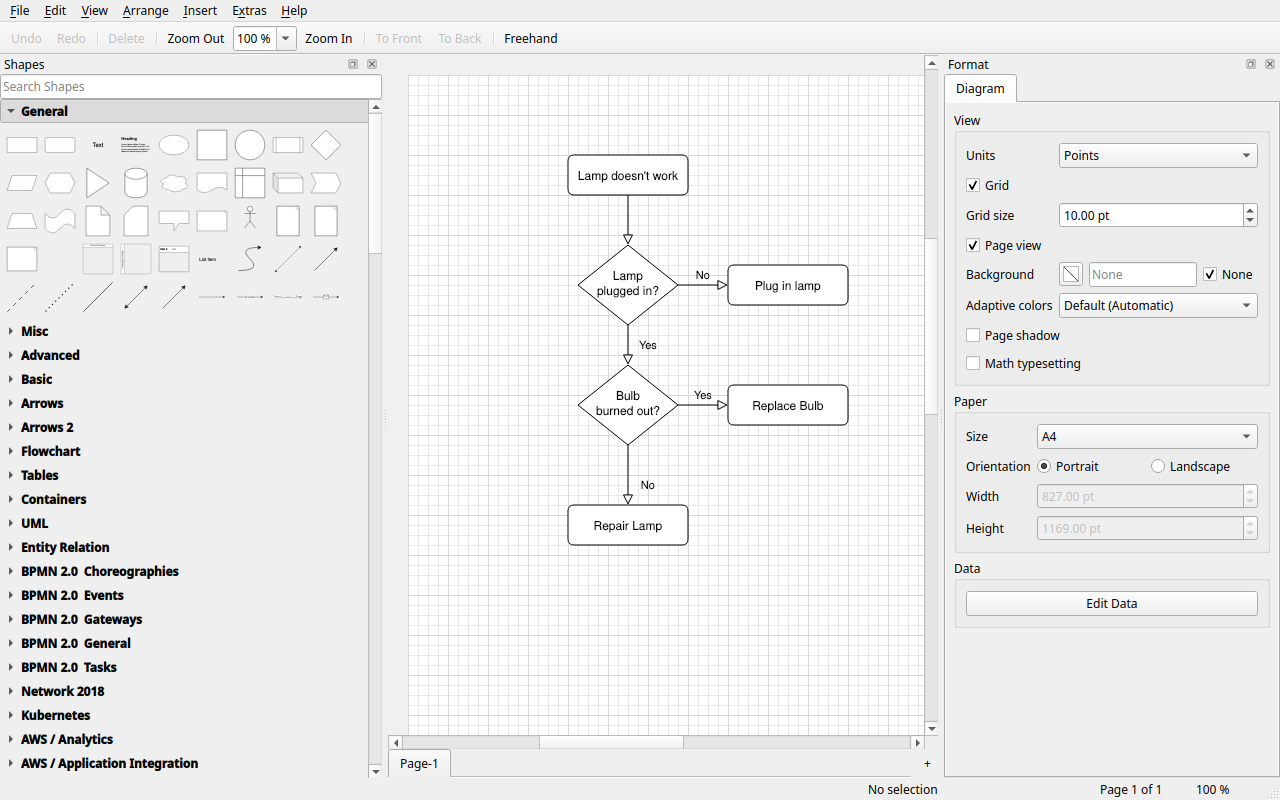
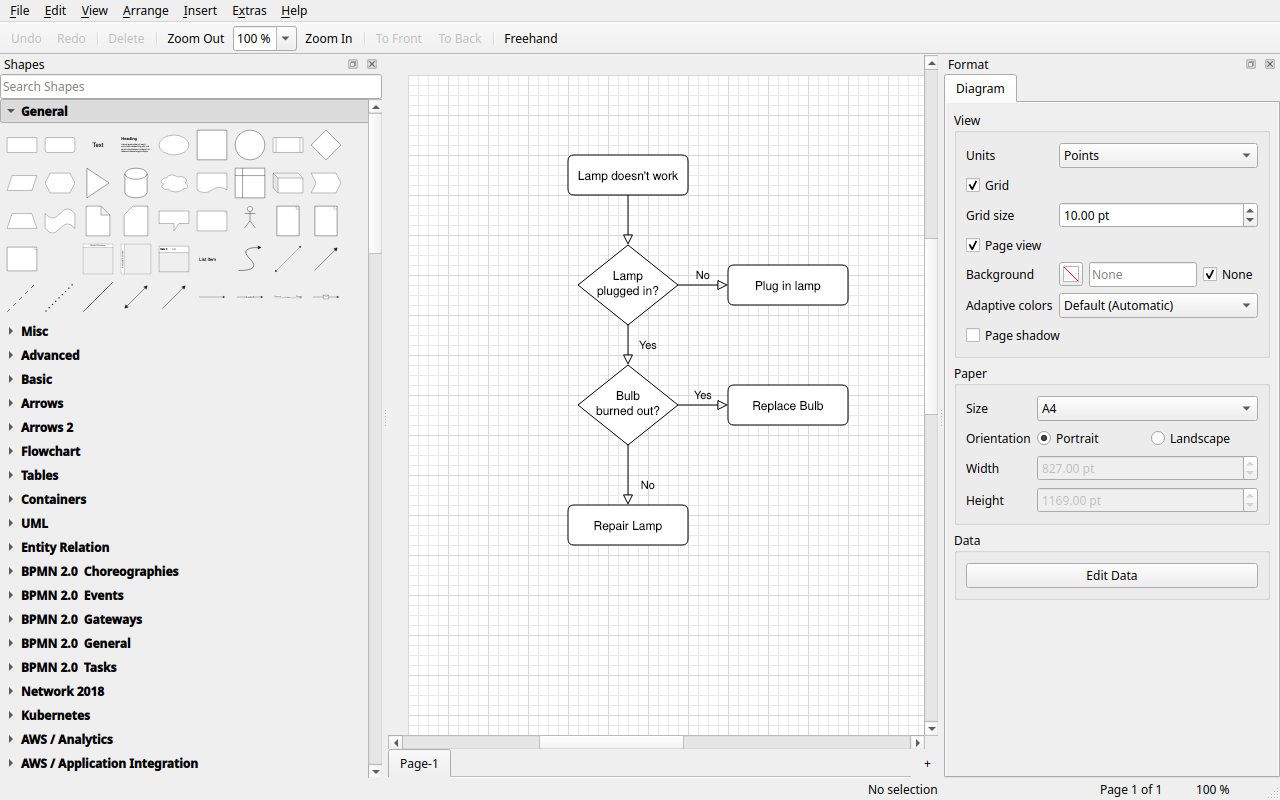
Remove the Math typesetting box from the Diagram tab
Math is not rendered. The page's math attribute still round-trips
untouched; PageProperties::math had no other user and is gone.

Claude-Session: https://claude.ai/code/session_013jiPzgfidmKXisoovgDPi8

Changed region(s): [[0.75, 0.5, 1.0, 0.7812], [0.75, 0.4375, 0.8438, 0.4688]]

diff --git a/tests/ui/tst_format_panel.cpp b/tests/ui/tst_format_panel.cpp
@@ -54,6 +54,7 @@ private slots:
     void diagramTabWhenNothingSelected();
     void cellTabsWhenSelected();
     void gridCheckboxWritesAndUndoes();
+    void thereIsNoMathBoxAndMathOnePassesThroughPageEdits();
     void fillColorWritesBothCellsInOneUndoStep();
     void strokeWidthStepsAreOneUndoStep();
     void mixedFormattedTextShowsPartialState();
@@ -110,6 +111,28 @@ void TestFormatPanel::gridCheckboxWritesAndUndoes()
     session.undo();
     QCOMPARE(savedBytes(session), before);
     QVERIFY(control<QCheckBox>(panel, "format.grid")->isChecked());
+}
+
+// Math typesetting is out of scope: the Diagram tab has no box for it, but a page that says math="1" keeps it.
+void TestFormatPanel::thereIsNoMathBoxAndMathOnePassesThroughPageEdits()
+{
+    std::string xml(kSimpleDiagram);
+    const std::size_t at = xml.find("math=\"0\"");
+    QVERIFY(at != std::string::npos);
+    xml.replace(at, 8, "math=\"1\"");
+    DocumentSession session(documentFromXml(xml));
+    FormatPanel panel(session);
+
+    QVERIFY(control<QCheckBox>(panel, "format.math") == nullptr);
+    for (const QCheckBox* box : panel.findChildren<QCheckBox*>())
+        QVERIFY2(!box->text().contains(QStringLiteral("Math"), Qt::CaseInsensitive), qPrintable(box->text()));
+
+    QVERIFY(savedBytes(session).contains("math=\"1\""));
+    control<QCheckBox>(panel, "format.pageShadow")->click(); // another page setting, written through setPageProperties
+    QVERIFY(session.currentPage()->shadow());
+    QVERIFY(savedBytes(session).contains("math=\"1\" shadow=\"1\""));
+    session.undo();
+    QVERIFY(savedBytes(session).contains("math=\"1\" shadow=\"0\""));
 }
 
 void TestFormatPanel::fillColorWritesBothCellsInOneUndoStep()

diff --git a/src/ui/format_diagram_tab.cpp b/src/ui/format_diagram_tab.cpp
@@ -69,7 +69,6 @@ private:
     ColorField* background_ = nullptr;
     QComboBox* adaptive_ = nullptr;
     QCheckBox* shadow_ = nullptr;
-    QCheckBox* math_ = nullptr;
     QComboBox* paperSize_ = nullptr;
     QRadioButton* portrait_ = nullptr;
     QRadioButton* landscape_ = nullptr;
@@ -169,15 +168,6 @@ void DiagramTab::buildView(QVBoxLayout* layout)
         props.shadow = on;
         applyPageProperties(session(), formatTr("Shadow"), props);
     });
-
-    math_ = new QCheckBox(formatTr("Math typesetting"));
-    math_->setObjectName(QStringLiteral("format.math"));
-    form->addRow(math_);
-    onClicked(math_, [this](bool on) {
-        commands::ops::PageProperties props;
-        props.math = on;
-        applyPageProperties(session(), formatTr("Math"), props);
-    });
 }
 
 void DiagramTab::buildPaper(QVBoxLayout* layout)
@@ -262,7 +252,6 @@ void DiagramTab::refresh(const StyleSummary& summary)
     setCurrentUnit();
     setCheckState(pageView_, page->pageVisible());
     setCheckState(shadow_, page->shadow());
-    setCheckState(math_, page->math());
     background_->setState(page->background(), false);
     {
         QSignalBlocker adaptiveBlocker(adaptive_);

diff --git a/src/ui/include/qraw/ui/format_panel.h b/src/ui/include/qraw/ui/format_panel.h
@@ -17,7 +17,8 @@ class DocumentSession;
 // Tabs depend on the selection (Format.prototype.refresh, Format.js):
 //  * nothing selected: "Diagram" (DiagramFormatPanel, Format.js:9560) --
 //    grid on/off + size, page view on/off, page size presets + custom +
-//    portrait/landscape, background color, shadow, math (shown, saved).
+//    portrait/landscape, background color, adaptive colors, shadow. (No math
+//    typesetting box: `math=1` is kept in the file, never rendered.)
 //  * vertices and/or edges: "Style" (StyleFormatPanel, :6836), "Text"
 //    (TextFormatPanel, :4683), "Arrange" (ArrangePanel, :2240).
 // Every control writes through DocumentSession::edit with ops::setStyles /

diff --git a/src/commands/include/qraw/commands/ops_pages.h b/src/commands/include/qraw/commands/ops_pages.h
@@ -102,7 +102,6 @@ struct PageProperties {
     std::optional<double> pageWidth;  // both width and height are needed to
     std::optional<double> pageHeight; // change the size; one alone -> failure
     std::optional<std::string> background;
-    std::optional<bool> math;
     std::optional<bool> shadow;
     // "auto", "simple" or "none" (dark diagram mode); "" or "default" removes the attribute.
     std::optional<std::string> adaptiveColors;

diff --git a/src/commands/ops_pages.cpp b/src/commands/ops_pages.cpp
@@ -250,8 +250,6 @@ Result setPageProperties(Transaction& tx, std::size_t index, const PagePropertie
         const bool none = *properties.background == "none";
         scratch.setBackground(none ? std::string_view{} : std::string_view{*properties.background});
     }
-    if (properties.math)
-        scratch.setMath(*properties.math);
     if (properties.shadow)
         scratch.setShadow(*properties.shadow);
     if (properties.adaptiveColors)

diff --git a/KNOWN_ISSUES.md b/KNOWN_ISSUES.md
@@ -19,7 +19,7 @@
 - **Find and replace.** A replacement inside HTML labels works only within one text node; a match spanning inline tags is found but not replaced.
 - **Palette.** Azure shapes use `img/lib/*.svg` images that are not shipped, so they insert but draw empty (the palette sections say "icons not included"); `labelPerimeter` is ignored. User libraries (`.xml` mxlibrary): their entries are not found by palette search and cannot be favorites or recent shapes (entry ids are positional); the `title` and `tags` attributes of `<mxlibrary>` and an entry's `style` are ignored; there is no drag to reorder entries; Export writes a copy (a library is saved on every change).
 - **Desktop integration.** `appstreamcli validate --no-net --pedantic` and `desktop-file-validate` are clean (also on the installed files and in CI). The metainfo screenshots use raw GitHub URLs on `main`, not a tag (Flathub wants a tag or commit), and `flatpak-builder-lint` reported `appid-url-not-reachable` while the repository was private, and still reports, `appstream-missing-screenshots` and `appstream-screenshots-not-mirrored-in-ostree` (nothing to fix in the files; packaging/flatpak/README.md). There is no MIME-type icon of its own (the generic `x-office-drawing` is used) and no translated metainfo. The Flatpak was built and smoke-tested (`qraw-cli --version`, a PNG export, an offscreen `--screenshot`) on one machine only (Fedora 44); the GUI was not run in a Wayland or X11 session inside the sandbox, so the FileChooser portal (from the platform theme plugins' strings), the CUPS socket and the window icon in a task manager are unverified. The Flathub form of the manifest is a commented template until a tag exists. The Windows resource file and the macOS bundle icon and identifier are set in CMake but are built only by CI; no file association is registered on Windows or macOS. A real Wayland/X11 session has not confirmed that the task manager groups the window under the icon (`StartupWMClass` is omitted on purpose).
-- **Math typesetting is not planned.** `math=1` is preserved in files and the formula text is rendered as plain text (nothing is deferred here).
+- **Math typesetting is not planned.** `math=1` is preserved in files but not rendered: the formula text shows as written, and the Format panel has no Math typesetting box (the flag is neither shown nor changed). Nothing is deferred here.
 - **Linux packages.** RPM, DEB and Flatpak bundle are built and smoke-tested on one development machine (Fedora 44); the `linux-packages` CI job is the only other build. The RPM is tested on Fedora 44, the DEB on Debian 13 and Ubuntu 25.10, 26.04 and 26.10 (all on the offscreen platform; no real desktop session, no Wayland or X11 run, no printing). Ubuntu 24.04 is not supported (Qt 6.4; the DEB refuses to install). The packages are not signed and are built for x86-64 only. The source archive is `git archive HEAD`, so uncommitted application changes are not packaged (the Flatpak builds the working tree). There is no AppImage, by choice. The package builds run the whole suite with no exclusions. The RPM is built with Fedora's default LTO. The label line pitch on macOS (fonts with a leading) and Return in the Cells panel have only been exercised by CI. The Windows packaging (`qt_generate_deploy_app_script` without plugin arguments before Qt 6.10) has had little testing on Windows. Qt's raster engine rounds the position of a glyph at a negative device coordinate differently from one at a positive coordinate (up to a quarter pixel of antialiasing, with fonts that position glyphs at fractions of a pixel): a label that straddles the top or left edge of a tile can differ in antialiasing from its other half by that much (not noticed by eye; the tile tests compare against a reference that avoids the quirk).
 - **Packages.** The Windows installer, the ZIP and the macOS `.dmg` are built in CI but were written without running Windows or macOS, so CI is their only test (the install step lists missing plugins, `tools/ci/smoke_package.sh` runs the exports from the unpacked, installed and mounted packages). They are unsigned: SmartScreen warns; the `.dmg` has an ad-hoc signature only and is not notarised (right-click, Open). The installer is per machine only (D-048; no per-user install, no `.dio` association, no "Open with" entry for other extensions). The macOS bundle is one architecture (the runner's); no universal binary. The `.dmg` has the default layout (no background picture, no Applications link). No AppImage, by choice. Not tested: a double click in Finder (`QFileOpenEvent` is tested by sending the event), launching from the Start Menu entry, an update over an installed older version.
 - **Crash reports and recovery (D-049).** (1) Best effort: a crash that corrupted the heap or the stack of the faulting thread can stop the report half way, and `backtrace()` is not formally async-signal-safe (primed at start, fine in practice). Only the thread that installed the handler (the main thread) has the alternate stack, so a stack overflow on a worker thread dies without a report. (2) Backtraces are module offsets, not function names, for `qraw` itself (no `-rdynamic`); resolve them with `addr2line` against the same build (the report names the commit; the commit is taken when CMake configures, so reconfigure after a new commit if the report must match). musl has no `<execinfo.h>`: the report then says there is no backtrace. (3) **Windows is untested:** the handler (`crash_handler_windows.cpp`) and its minidump are compiled in CI and nothing runs them, because the data folder of Windows cannot be redirected for a test; the call stack is the filter's own stack as module+offset, not symbolised (no PDBs ship), and the `.dmp` is for WinDbg. (4) Under ASan/UBSan builds the sanitizer's handlers win for SIGSEGV and SIGABRT: no report (`tst_app_crash_process` skips itself there). (5) macOS: the same code as Linux, run by CI only; the test skips itself when `HOME` cannot be redirected. A crash on macOS also shows the system's crash dialog. (6) The log file is written by the GUI only, is capped by emptying (the lines of the current run before the cap are lost, the previous run stays in `qraw.log.1`), and is not rotated by date. (7) Recovery opens each extra document in its own window; Quit closes only the window it is used in. A session that ended unexpectedly with nothing to recover is reported once and cannot be told from a deliberate `kill` or a logout that killed the process.

diff --git a/COMPATIBILITY.md b/COMPATIBILITY.md
@@ -72,7 +72,7 @@ Checked by `tst_render_corpus_export` (every page of all 363 corpus files export
 | `perimeter` rectangle, ellipse, rhombus, triangle, hexagon, parallelogram, trapezoid, step, ... | supported | callout, lifeline and cloud perimeters fall back to the rectangle |
 | HTML labels | partial | the draw.io subset; arbitrary HTML/CSS is sanitized, not laid out like a browser. Tables: width and height of 100 % in an `overflow=fill` box, `cellpadding`, `border`, `border-collapse`, row and cell backgrounds, centred cells; `<hr>` colour and position, list indent and inner `text-align` differ by a few pixels (docs/FIDELITY.md) |
 | Placeholders `%name%`, `%id%`, `%width%`, `%height%`, `%page%`, `%pagenumber%`, `%pagecount%`, `%filename%`, `%date%`, `%time%`, `%timestamp%` | supported | active only when the value's wrapper has `placeholders="1"` (a style flag alone does not count); `%page%`, `%pagenumber%` and `%pagecount%` are set by the canvas, `%filename%` is unset in the app and in export (the token stays literal), so export leaves the page variables literal; date and time use the system short formats; `date{fmt}`, unit suffixes and `%length%` stay literal |
-| `math=1` | preserved, rendered as plain text | math typesetting is not planned (not planned); the flag round-trips and the formula text is shown as written |
+| `math=1` | preserved, not rendered | math typesetting is not planned; the flag round-trips untouched (also when other page settings change), the formula text is shown as written, and the Format panel has no box for it |
 | `sketch=1`, `comic=1`, `sketchStyle`, `jiggle`, `bowing`, `curveFitting`, `fillStyle`, `fillWeight`, `hachureAngle`, `hachureGap`, `dashGap`, `dashOffset`, `disableMultiStroke`, `disableMultiStrokeFill` | partial | drawn by a clean-room hand-drawn renderer, not rough.js: doubled bowed strokes and hachure, cross-hatch and dashed fills (solid for white or gradient fills); `zigzag`, `zigzag-line` and `dots` fills are hatched. Deterministic per cell id, so it never changes between renders. The sketch font is not substituted |
 | `adaptiveColors` (`auto`, `simple`, `none`), `light-dark(a, b)` colour values, dark mode | supported | see "Dark diagram mode" below; `tst_render_adaptive_colors`, `tst_ui_canvas_tiles` |
 | `glass=1`, graph theme | not supported | ignored |

diff --git a/CHANGELOG.md b/CHANGELOG.md
@@ -9,6 +9,9 @@ All notable changes are listed here. The format follows [Keep a Changelog](https
 - While a shape is dragged into a container, the container is outlined in green on a dark canvas and in blue on a light one, as draw.io does.
 - The System theme gives the application palette back to the platform instead of keeping a copy of the startup palette, so the widgets follow the OS colour scheme too.
 
+### Removed
+- The Math typesetting box of the Format panel's Diagram tab: Qraw does not render math. A page's `math` attribute is still kept as it is in the file.
+
 ## [0.1.0] - 2026-11-26
 
 The first release. Qraw is a native Qt 6 / C++20 editor for draw.io files; see [README.md](README.md) for what it is and [ROADMAP.md](ROADMAP.md) for what is not done yet. It is licensed under the Apache License 2.0 ([LICENSE](LICENSE), [NOTICE](NOTICE)); the draw.io code and data it derives from are Apache-2.0 too ([THIRD_PARTY.md](THIRD_PARTY.md)).
